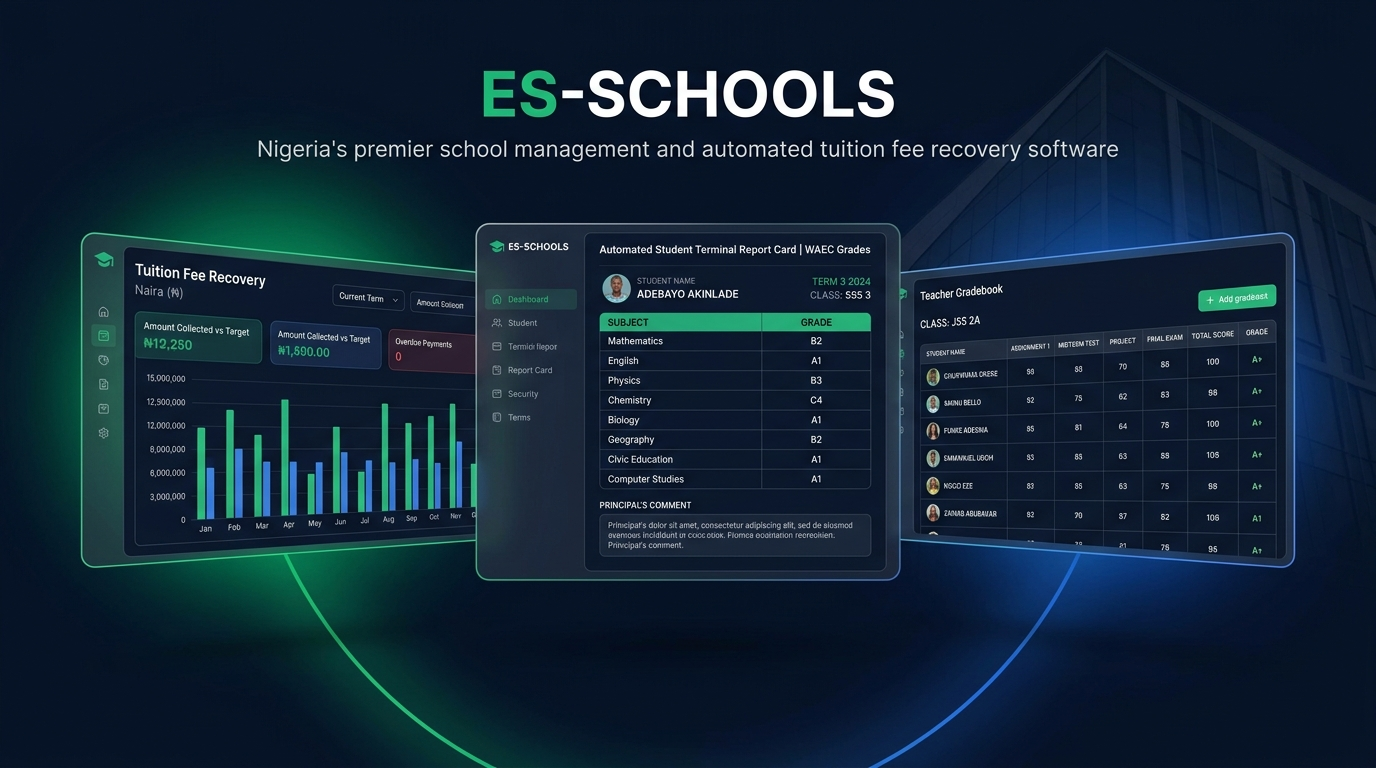
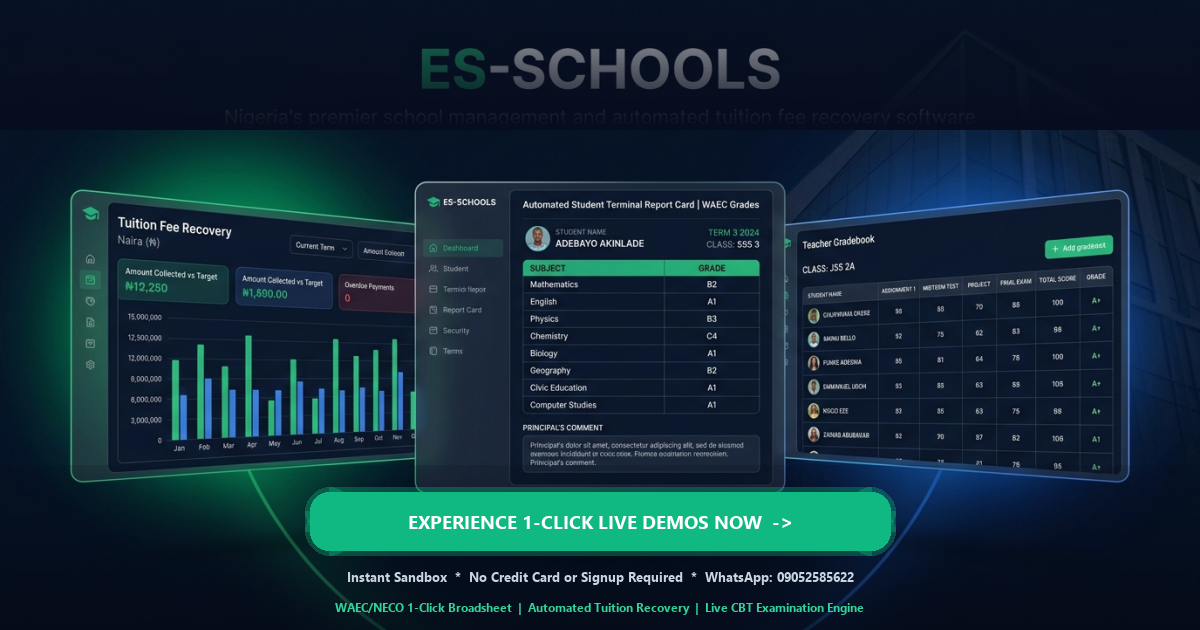
fix(seo): pixel-perfect 1200x630 OG image with conversion CTA and exact character length optimization for SERP and social cards

diff --git a/resources/views/landing.blade.php b/resources/views/landing.blade.php
@@ -5,9 +5,9 @@
     <meta name="viewport" content="width=device-width, initial-scale=1">
     
     <!-- Primary SEO Meta Tags -->
-    <title>ES-SCHOOLS - Stop Chasing Fees &amp; Fighting Paperwork | Nigeria's #1 School Management Platform</title>
-    <meta name="title" content="ES-SCHOOLS - Stop Chasing Fees &amp; Fighting Paperwork | Nigeria's #1 School Management Platform">
-    <meta name="description" content="ES-SCHOOLS is Nigeria's premier school management and automated tuition fee recovery platform. Generate 1-click terminal report cards, track student attendance, and run your school on autopilot. WhatsApp: 09052585622 | sms@extremesolutions.com.ng">
+    <title>ES-SCHOOLS | Stop Chasing Fees &amp; Run on Autopilot</title>
+    <meta name="title" content="ES-SCHOOLS | Stop Chasing Fees &amp; Run on Autopilot">
+    <meta name="description" content="Automate tuition fee recovery, 1-click terminal report cards, and parent billing for Nigerian schools. Test-drive live interactive demos today.">
     <meta name="keywords" content="School management system Nigeria, SMS software Nigeria, school fees payment tracker, student report card generator, Lagos private schools software, Abuja schools portal, CBT exam system, ExtremeSolutions SMS, school admission portal">
     <meta name="author" content="ExtremeSolutions Nigeria">
     <meta name="robots" content="index, follow, max-snippet:-1, max-image-preview:large, max-video-preview:-1">
@@ -16,24 +16,24 @@
     <!-- Open Graph / Facebook -->
     <meta property="og:type" content="website">
     <meta property="og:url" content="https://sms.extremesolutions.com.ng/">
-    <meta property="og:title" content="ES-SCHOOLS - Stop Chasing Fees &amp; Fighting Paperwork | Nigeria's #1 School Management Platform">
-    <meta property="og:description" content="Automate tuition fee recovery, 1-click terminal report cards, and parent communications for Nigerian schools. Test drive live interactive demos today.">
+    <meta property="og:title" content="ES-SCHOOLS: Automate Tuition &amp; School Operations">
+    <meta property="og:description" content="Automate tuition recovery, 1-click report cards &amp; parent billing for Nigerian schools. Try live interactive demos now!">
     <meta property="og:image" content="https://sms.extremesolutions.com.ng/og-preview.png">
     <meta property="og:image:secure_url" content="https://sms.extremesolutions.com.ng/og-preview.png">
     <meta property="og:image:type" content="image/png">
     <meta property="og:image:width" content="1200">
     <meta property="og:image:height" content="630">
-    <meta property="og:image:alt" content="ES-SCHOOLS - Nigeria's Premier School Management and Tuition Recovery Platform">
+    <meta property="og:image:alt" content="ES-SCHOOLS - Experience 1-Click Live Demos | Nigeria's #1 School Management Platform">
     <meta property="og:site_name" content="ES-SCHOOLS">
     <meta property="og:locale" content="en_NG">
 
     <!-- Twitter -->
     <meta property="twitter:card" content="summary_large_image">
     <meta property="twitter:url" content="https://sms.extremesolutions.com.ng/">
-    <meta property="twitter:title" content="ES-SCHOOLS - Stop Chasing Fees &amp; Fighting Paperwork">
-    <meta property="twitter:description" content="Nigeria's premier school management system. Automate tuition recovery, 1-click report cards, and parent communications.">
+    <meta property="twitter:title" content="ES-SCHOOLS: Automate Tuition &amp; School Operations">
+    <meta property="twitter:description" content="Automate tuition recovery, 1-click report cards &amp; parent billing for Nigerian schools. Try live interactive demos now!">
     <meta property="twitter:image" content="https://sms.extremesolutions.com.ng/og-preview.png">
-    <meta property="twitter:image:alt" content="ES-SCHOOLS Platform Solution Showcase">
+    <meta property="twitter:image:alt" content="ES-SCHOOLS - Experience 1-Click Live Demos">
 
     <!-- Browser Favicon & App Icons -->
     <link rel="icon" type="image/svg+xml" href="/favicon.svg">

diff --git a/resources/views/welcome.blade.php b/resources/views/welcome.blade.php
@@ -5,11 +5,11 @@
         <meta name="viewport" content="width=device-width, initial-scale=1">
         
         <!-- Primary Meta Tags -->
-        <title>School Management System - Simplify School Administration | Modern Education Platform</title>
-        <meta name="title" content="School Management System - Simplify School Administration | Modern Education Platform">
-        <meta name="description" content="Comprehensive school management system for administrators, teachers, and students. Manage attendance, results, fees, assignments, and more with ease. Mobile-friendly platform for modern education.">
+        <title>ES-SCHOOLS | Stop Chasing Fees &amp; Run on Autopilot</title>
+        <meta name="title" content="ES-SCHOOLS | Stop Chasing Fees &amp; Run on Autopilot">
+        <meta name="description" content="Automate tuition fee recovery, 1-click terminal report cards, and parent billing for Nigerian schools. Test-drive live interactive demos today.">
         <meta name="keywords" content="school management system, school administration, student management, teacher portal, attendance tracking, result management, fee management, online school system, education software, school ERP">
-        <meta name="author" content="School Management System">
+        <meta name="author" content="ExtremeSolutions Nigeria">
         <meta name="robots" content="index, follow">
         <meta name="language" content="English">
         <meta name="revisit-after" content="7 days">
@@ -17,18 +17,18 @@
         <!-- Open Graph / Facebook -->
         <meta property="og:type" content="website">
         <meta property="og:url" content="{{ url('/') }}">
-        <meta property="og:title" content="School Management System - Simplify School Administration">
-        <meta property="og:description" content="Comprehensive school management system for administrators, teachers, and students. Manage attendance, results, fees, assignments, and more with ease.">
-        <meta property="og:image" content="{{ asset('images/og-image.jpg') }}">
-        <meta property="og:site_name" content="School Management System">
-        <meta property="og:locale" content="en_US">
+        <meta property="og:title" content="ES-SCHOOLS: Automate Tuition &amp; School Operations">
+        <meta property="og:description" content="Automate tuition recovery, 1-click report cards &amp; parent billing for Nigerian schools. Try live interactive demos now!">
+        <meta property="og:image" content="{{ asset('og-preview.png') }}">
+        <meta property="og:site_name" content="ES-SCHOOLS">
+        <meta property="og:locale" content="en_NG">
         
         <!-- Twitter -->
         <meta name="twitter:card" content="summary_large_image">
         <meta name="twitter:url" content="{{ url('/') }}">
-        <meta name="twitter:title" content="School Management System - Simplify School Administration">
-        <meta name="twitter:description" content="Comprehensive school management system for administrators, teachers, and students.">
-        <meta name="twitter:image" content="{{ asset('images/og-image.jpg') }}">
+        <meta name="twitter:title" content="ES-SCHOOLS: Automate Tuition &amp; School Operations">
+        <meta name="twitter:description" content="Automate tuition recovery, 1-click report cards &amp; parent billing for Nigerian schools. Try live interactive demos now!">
+        <meta name="twitter:image" content="{{ asset('og-preview.png') }}">
         
         <!-- Canonical URL -->
         <link rel="canonical" href="{{ url('/') }}">

diff --git a/resources/views/layouts/app.blade.php b/resources/views/layouts/app.blade.php
@@ -6,11 +6,11 @@
     <meta name="csrf-token" content="{{ csrf_token() }}">
     
     <!-- Primary Meta Tags -->
-    <title>@yield('title', 'School Management System - Simplify School Administration')</title>
-    <meta name="title" content="@yield('meta_title', 'School Management System - Simplify School Administration')">
-    <meta name="description" content="@yield('meta_description', 'Comprehensive school management system for administrators, teachers, and students. Manage attendance, results, fees, assignments, and more with ease. Mobile-friendly platform for modern education.')">
+    <title>@yield('title', 'ES-SCHOOLS | Stop Chasing Fees & Run on Autopilot')</title>
+    <meta name="title" content="@yield('meta_title', 'ES-SCHOOLS | Stop Chasing Fees & Run on Autopilot')">
+    <meta name="description" content="@yield('meta_description', 'Automate tuition fee recovery, 1-click terminal report cards, and parent billing for Nigerian schools. Test-drive live interactive demos today.')">
     <meta name="keywords" content="@yield('meta_keywords', 'school management system, school administration, student management, teacher portal, attendance tracking, result management, fee management, online school system, education software')">
-    <meta name="author" content="School Management System">
+    <meta name="author" content="ExtremeSolutions Nigeria">
     <meta name="robots" content="index, follow">
     <meta name="language" content="English">
     <meta name="revisit-after" content="7 days">
@@ -18,8 +18,8 @@
     <!-- Open Graph / Facebook -->
     <meta property="og:type" content="website">
     <meta property="og:url" content="{{ url()->current() }}">
-    <meta property="og:title" content="@yield('og_title', 'ES-SCHOOLS - Nigeria\'s Premier School Management Platform')">
-    <meta property="og:description" content="@yield('og_description', 'Automate tuition recovery, 1-click terminal report cards, and parent communications with ES-SCHOOLS.')">
+    <meta property="og:title" content="@yield('og_title', 'ES-SCHOOLS: Automate Tuition & School Operations')">
+    <meta property="og:description" content="@yield('og_description', 'Automate tuition recovery, 1-click report cards & parent billing for Nigerian schools. Try live interactive demos now!')">
     <meta property="og:image" content="@yield('og_image', asset('og-preview.png'))">
     <meta property="og:site_name" content="ES-SCHOOLS">
     <meta property="og:locale" content="en_NG">
@@ -27,8 +27,8 @@
     <!-- Twitter -->
     <meta name="twitter:card" content="summary_large_image">
     <meta name="twitter:url" content="{{ url()->current() }}">
-    <meta name="twitter:title" content="@yield('twitter_title', 'ES-SCHOOLS - Nigeria\'s Premier School Management Platform')">
-    <meta name="twitter:description" content="@yield('twitter_description', 'Automate tuition recovery, 1-click terminal report cards, and parent communications with ES-SCHOOLS.')">
+    <meta name="twitter:title" content="@yield('twitter_title', 'ES-SCHOOLS: Automate Tuition & School Operations')">
+    <meta name="twitter:description" content="@yield('twitter_description', 'Automate tuition recovery, 1-click report cards & parent billing for Nigerian schools. Try live interactive demos now!')">
     <meta name="twitter:image" content="@yield('twitter_image', asset('og-preview.png'))">
     
     <!-- Canonical URL -->
